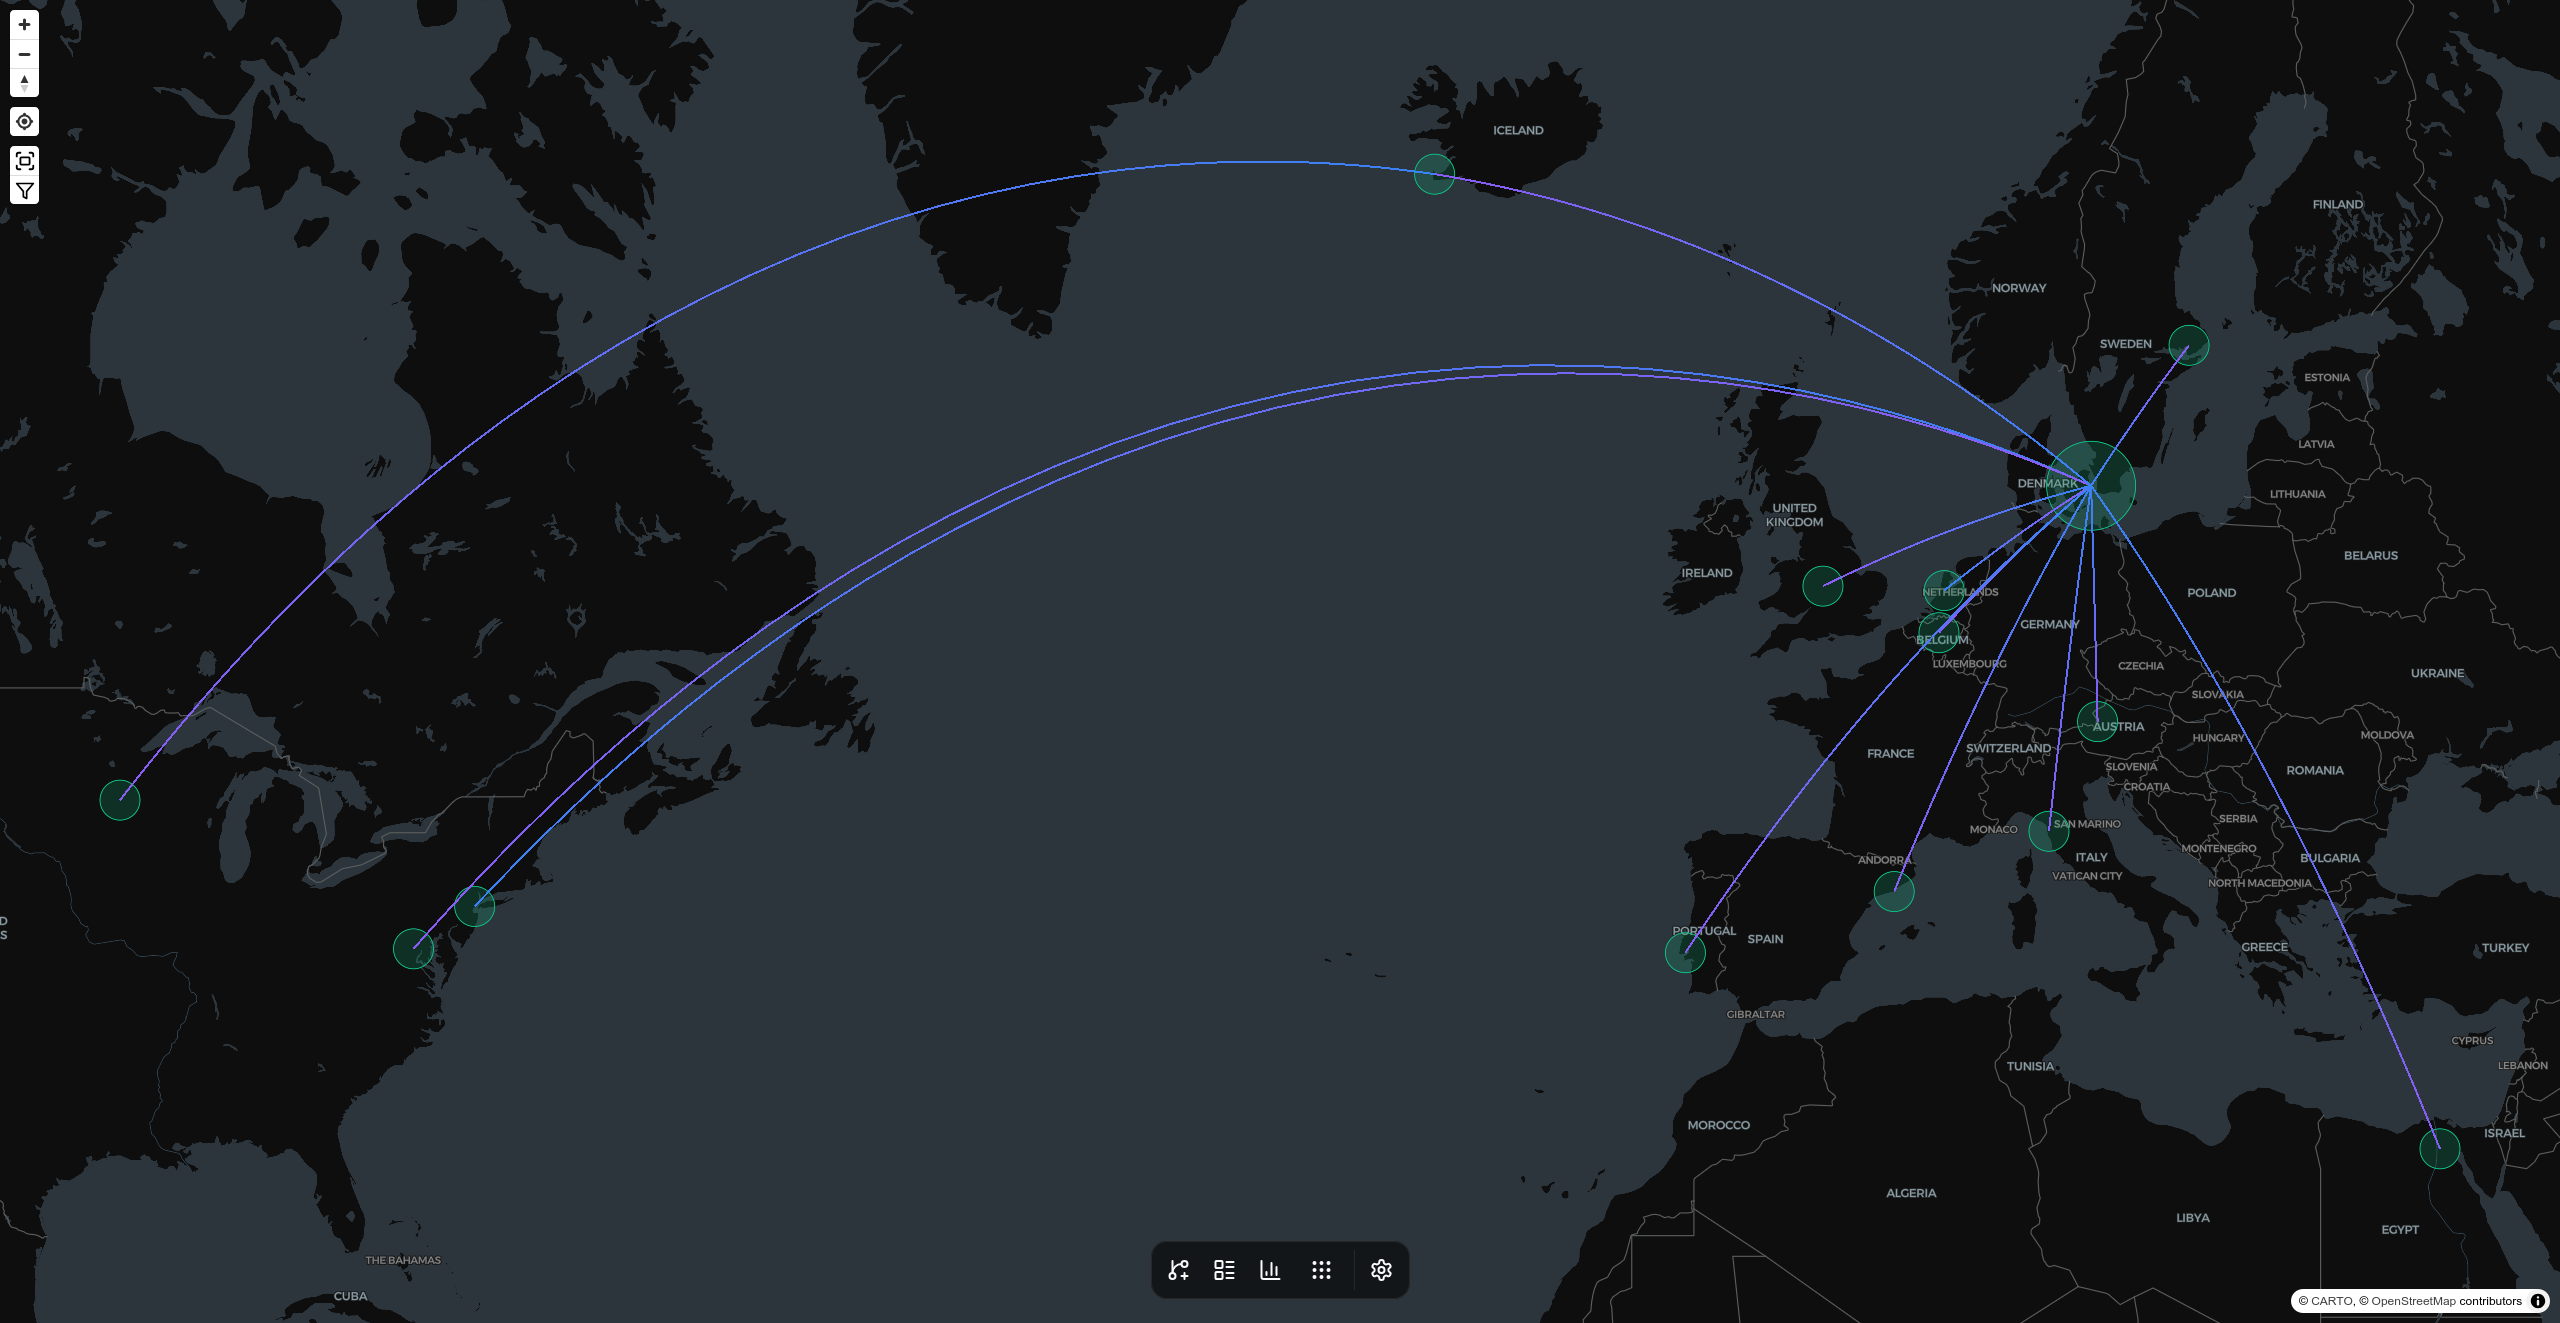
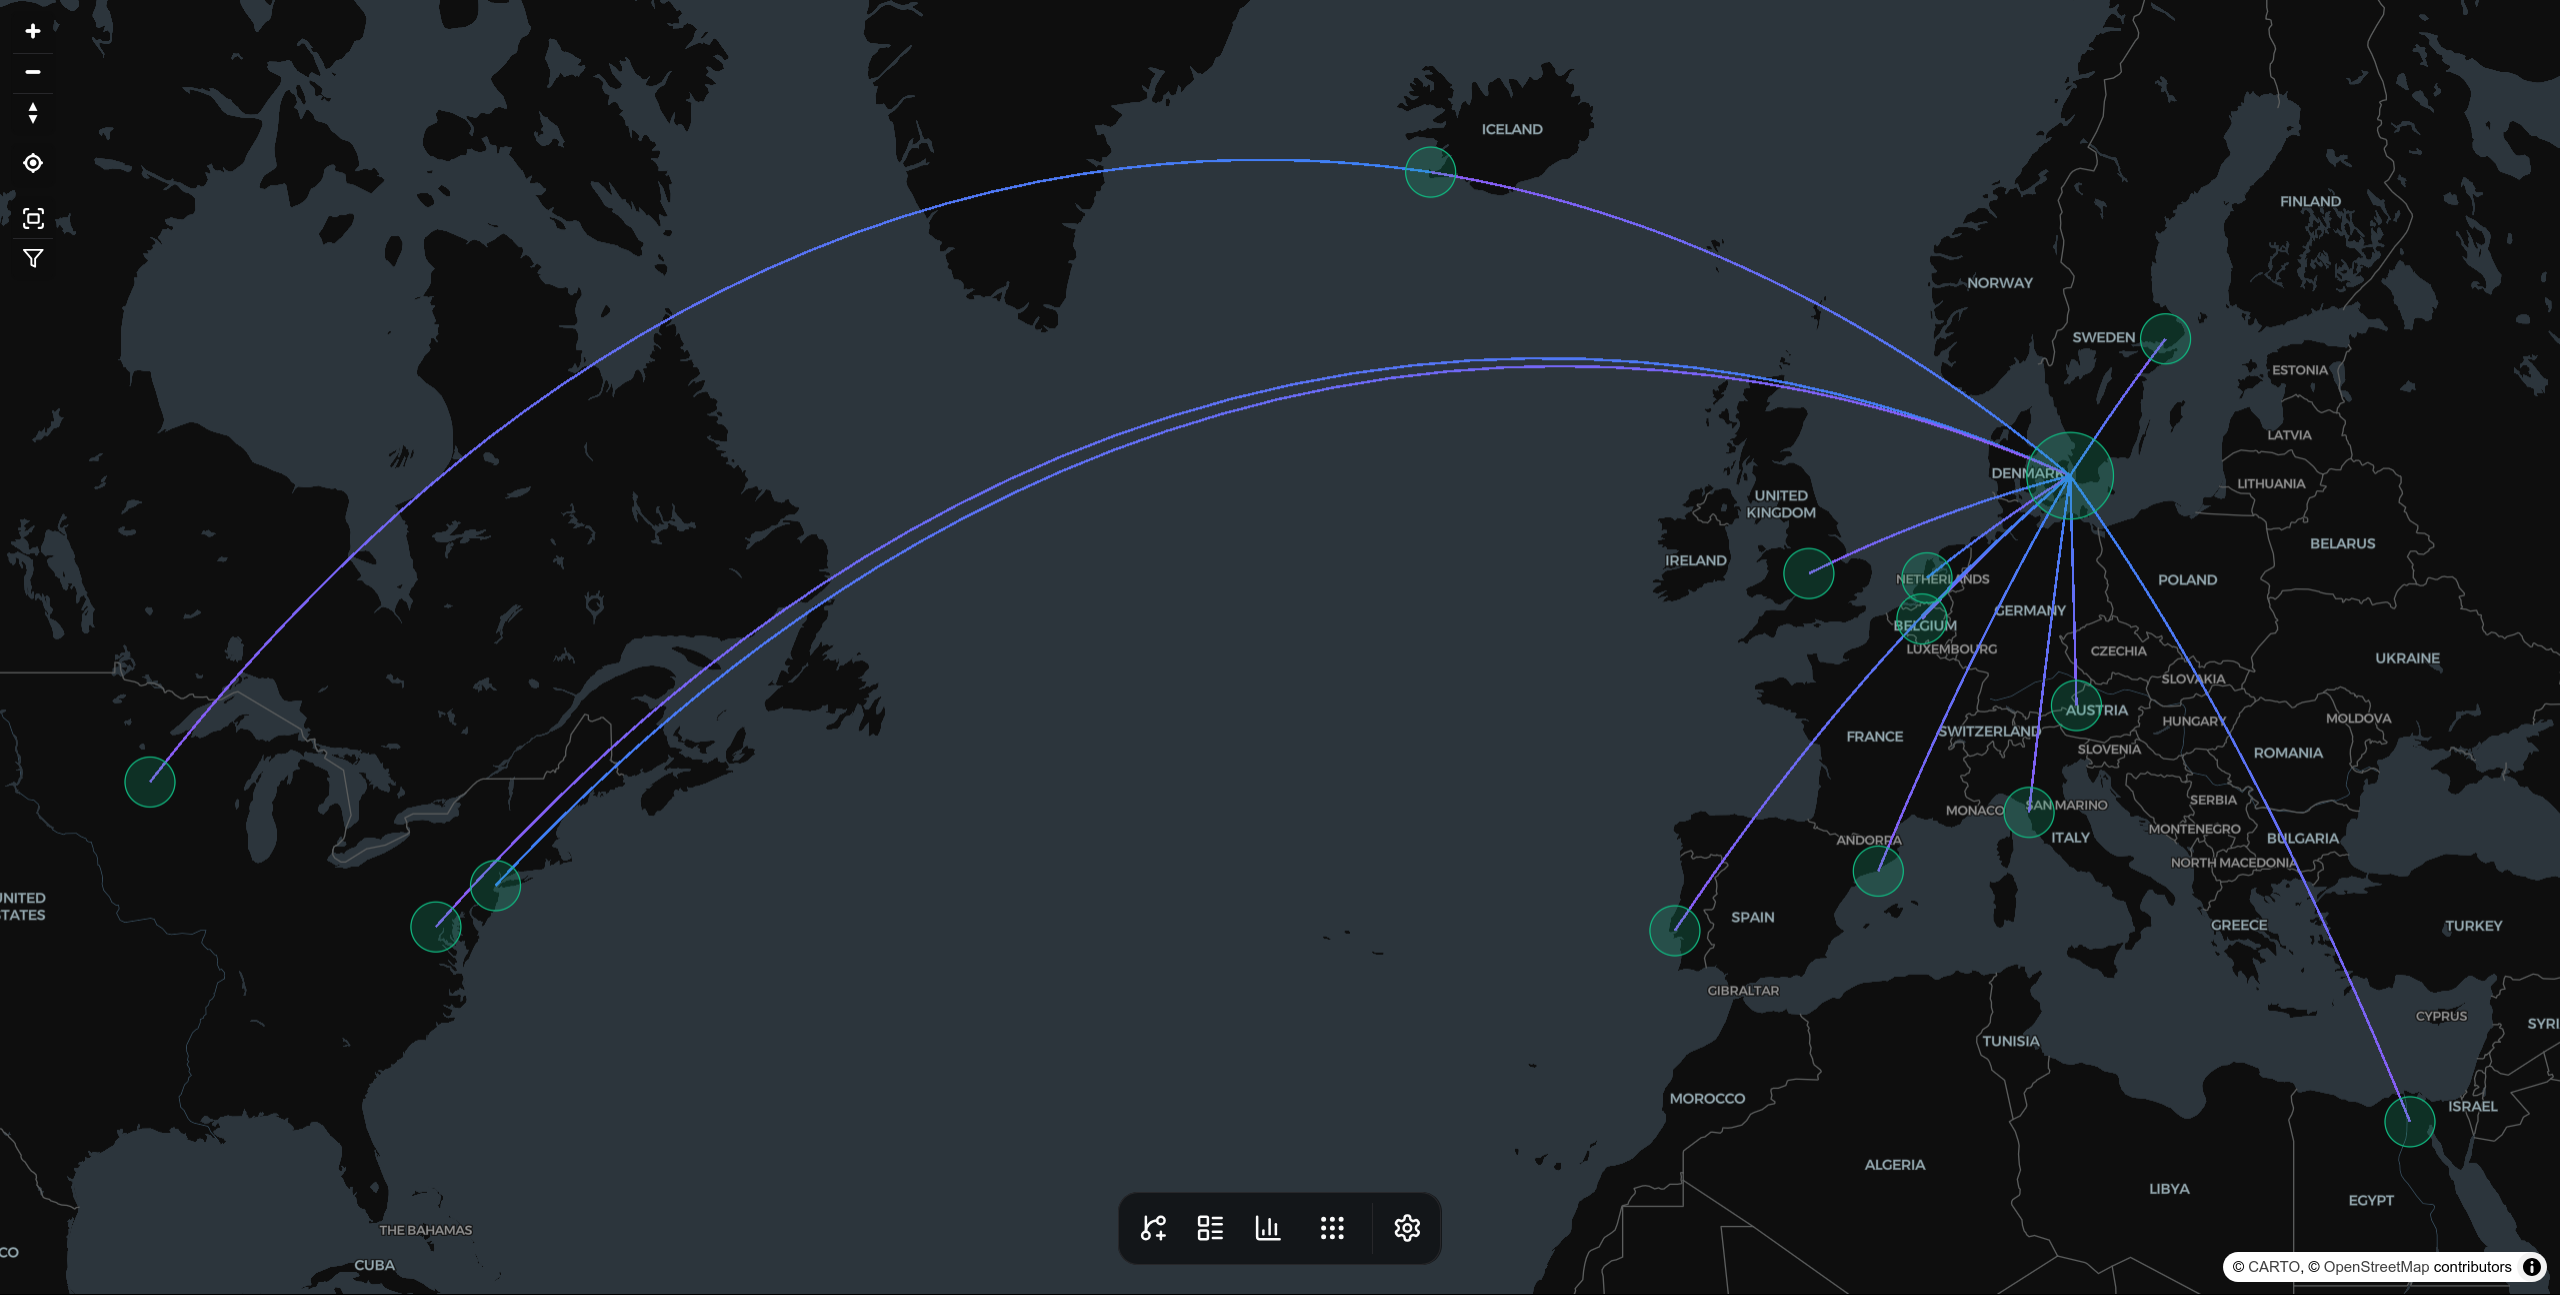
feat: add dark map controls (#156)

diff --git a/src/app.css b/src/app.css
@@ -1,5 +1,19 @@
 @import url('https://fonts.googleapis.com/css2?family=Public+Sans:ital,wght@0,300;0,400;0,500;0,600;0,700;1,300;1,400;1,500;1,700&display=swap');
 
+@font-face {
+  font-family: 'maplibre-icons';
[1 lines of base64/hex data omitted]
+  font-weight: normal;
+  font-style: normal;
+}
+
+@font-face {
+  font-family: 'maplibregl-icons-core';
[1 lines of base64/hex data omitted]
+  font-weight: normal;
+  font-style: normal;
+}
+
 @tailwind base;
 @tailwind components;
 @tailwind utilities;
@@ -97,6 +111,249 @@ body {
 
 .maplibregl-popup-tip {
   @apply !border-none;
+}
+
+:root {
+  --ml-bg: 0 0% 100%;
+  --ml-fg: 0 0% 0%;
+}
+
+.dark {
+  --ml-bg: 0 0% 5%;
+  --ml-fg: 0 0% 100%;
+}
+
+.maplibregl-ctrl-group:where(:not([data-clear-ctrl])) {
+  background-color: hsl(var(--ml-bg)) !important;
+}
+
+.maplibregl-ctrl-group button + button {
+  border-top: 1px solid hsl(var(--border)) !important;
+}
+
+.maplibregl-ctrl-icon {
+  display: unset !important;
+  width: unset !important;
+  height: unset !important;
+  background-image: none !important;
+}
+
+:is(.maplibregl-ctrl, .mapboxgl-ctrl)
+  button:not([title='Clear filters']):not(:disabled):hover {
+  filter: brightness(0.8) !important;
+}
+
+:is(.maplibregl-ctrl-group, .mapboxgl-ctrl-group) button:first-child {
+  border-top-left-radius: 4px !important;
+  border-top-right-radius: 4px !important;
+}
+
+:is(.maplibregl-ctrl-group, .mapboxgl-ctrl-group) button:last-child {
+  border-bottom-left-radius: 4px !important;
+  border-bottom-right-radius: 4px !important;
+}
+
+.maplibregl-ctrl-icon::before {
+  display: inline-block !important;
+  font-style: normal !important;
+  font-weight: 400 !important;
+  text-align: center !important;
+  font-size: 1rem !important;
+  height: 1rem !important;
+  line-height: 1em !important;
+  width: 1rem !important;
+}
+
+:is(.maplibregl-ctrl-group, .mapboxgl-ctrl-group) button {
+  align-items: center !important;
+  background-color: transparent !important;
+  box-shadow: 0 0 #0000 !important;
+  display: flex !important;
+  justify-content: center !important;
+  position: relative !important;
+  border: 0 !important;
+  color: hsl(var(--ml-fg)) !important;
+  cursor: pointer !important;
+  height: 2rem !important;
+  outline: none !important;
+  padding: 0 !important;
+  transition-duration: 0.3s !important;
+  transition-property: color, background-color, border-color,
+    text-decoration-color, fill, stroke, box-shadow !important;
+  transition-timing-function: cubic-bezier(0.4, 0, 0.2, 1) !important;
+  width: 2rem !important;
+}
+
+.maplibregl-ctrl button.maplibregl-ctrl-zoom-out .maplibregl-ctrl-icon::before {
+  content: '-' !important;
+}
+
+.maplibregl-ctrl button.maplibregl-ctrl-zoom-in .maplibregl-ctrl-icon::before {
+  content: '+' !important;
+}
+
+.maplibregl-ctrl button.maplibregl-ctrl-compass .maplibregl-ctrl-icon::before {
+  content: '\e809' !important;
+}
+.maplibregl-ctrl button.maplibregl-ctrl-compass .maplibregl-ctrl-icon::after {
+  color: hsl(var(--ml-fg)) !important;
+  content: '\e80a' !important;
+  position: absolute !important;
+  left: 50% !important;
+  top: 50% !important;
+  transform: translate(-50%, -50%) !important;
+}
+
+a.maplibregl-ctrl-logo::before {
+  font-family: maplibregl-icons-core, sans-serif;
+}
+
+.maplibregl-ctrl .maplibregl-ctrl-attrib-button::before,
+.maplibregl-ctrl button .maplibregl-ctrl-icon::before,
+.maplibregl-ctrl
+  button.maplibregl-ctrl-geolocate:disabled
+  .maplibregl-ctrl-icon::after,
+.maplibregl-ctrl button.maplibregl-ctrl-compass .maplibregl-ctrl-icon::after {
+  font-family: maplibre-icons, sans-serif;
+
+  -webkit-font-smoothing: antialiased !important;
+  -moz-osx-font-smoothing: grayscale !important;
+
+  font-variant: normal !important;
+  text-transform: none !important;
+
+  text-decoration: inherit !important;
+
+  font-style: normal !important;
+  font-weight: normal !important;
+
+  display: inline-block !important;
+  text-align: center !important;
+
+  width: 1rem !important;
+  height: 1rem !important;
+
+  line-height: 1rem !important;
+
+  font-size: 1rem !important;
+}
+
+.maplibregl-ctrl
+  button.maplibregl-ctrl-geolocate
+  .maplibregl-ctrl-icon::before {
+  content: '\e80c' !important;
+}
+
+.maplibregl-ctrl
+  button.maplibregl-ctrl-geolocate:disabled
+  .maplibregl-ctrl-icon::after {
+  content: '\e80e' !important;
+  color: hsl(var(--destructive)) !important;
+  position: absolute !important;
+  left: 50% !important;
+  top: 50% !important;
+  transform: translate(-50%, calc(-50% - 1px)) !important;
+}
+
+.maplibregl-ctrl
+  button.maplibregl-ctrl-geolocate.maplibregl-ctrl-geolocate-active
+  .maplibregl-ctrl-icon::before {
+  content: '\e80c' !important;
+  color: hsl(var(--primary)) !important;
+}
+
+.maplibregl-ctrl
+  button.maplibregl-ctrl-geolocate.maplibregl-ctrl-geolocate-active-error
+  .maplibregl-ctrl-icon::before {
+  content: '\e80c' !important;
+  color: hsl(var(--destructive)) !important;
+}
+
+.maplibregl-ctrl
+  button.maplibregl-ctrl-geolocate.maplibregl-ctrl-geolocate-background
+  .maplibregl-ctrl-icon::before {
+  content: '\e80d' !important;
+  color: hsl(var(--destructive)) !important;
+}
+
+.maplibregl-ctrl
+  button.maplibregl-ctrl-geolocate.maplibregl-ctrl-geolocate-background-error
+  .maplibregl-ctrl-icon::before {
+  content: '\e80d' !important;
+  color: hsl(var(--destructive)) !important;
+}
+
+.maplibregl-ctrl
+  button.maplibregl-ctrl-geolocate.maplibregl-ctrl-geolocate-waiting
+  .maplibregl-ctrl-icon::before {
+  animation: maplibregl-spin 2s infinite linear !important;
+}
+
+@keyframes maplibregl-spin {
+  0% {
+    transform: rotate(0deg);
+  }
+  100% {
+    transform: rotate(360deg);
+  }
+}
+
+.maplibregl-user-location-dot {
+  background-color: hsl(var(--primary)) !important;
+  width: 15px !important;
+  height: 15px !important;
+  border-radius: 50% !important;
+}
+
+.maplibregl-user-location-dot::before {
+  background-color: hsl(var(--primary)) !important;
+  content: '' !important;
+  width: 15px !important;
+  height: 15px !important;
+  border-radius: 50% !important;
+  position: absolute !important;
+  animation: maplibregl-user-location-dot-pulse 2s infinite !important;
+}
+
+.maplibregl-user-location-dot::after {
+  border-radius: 50% !important;
+  border: none !important;
+  content: '' !important;
+  height: 19px !important;
+  left: -2px !important;
+  position: absolute !important;
+  top: -2px !important;
+  width: 19px !important;
+  box-sizing: border-box !important;
+  box-shadow: 0 0 3px rgb(0 0 0 / 35%) !important;
+}
+
+@keyframes maplibregl-user-location-dot-pulse {
+  0% {
+    transform: scale(1);
+    opacity: 1;
+  }
+  70% {
+    transform: scale(3);
+    opacity: 0;
+  }
+  100% {
+    transform: scale(1);
+    opacity: 0;
+  }
+}
+
+.maplibregl-user-location-dot-stale {
+  background-color: hsl(var(--destructive)) !important;
+}
+
+.maplibregl-user-location-dot-stale::after {
+  display: none !important;
+}
+
+.maplibregl-user-location-accuracy-circle {
+  background-color: hsla(var(--primary) / 20%) !important;
+  border-radius: 100% !important;
 }
 
 /* Basic prose styles */

diff --git a/src/lib/components/map/Map.svelte b/src/lib/components/map/Map.svelte
@@ -90,17 +90,13 @@
   {#if flights.length}
     <Control position="top-left">
       <ControlGroup>
-        <ControlButton
-          on:click={() => fitFlights()}
-          title="Show all flights"
-          class="text-black"
-        >
-          <Fullscreen size={22} />
+        <ControlButton on:click={() => fitFlights()} title="Show all flights">
+          <Fullscreen size={20} />
         </ControlButton>
         <Popover.Root>
           <Popover.Trigger>
-            <ControlButton title="Filter flights" class="text-black">
-              <Filter size={20} />
+            <ControlButton title="Filter flights">
+              <Filter size={18} />
             </ControlButton>
           </Popover.Trigger>
           <Popover.Content
@@ -114,16 +110,19 @@
     </Control>
     <Control position="top-left">
       {#if showClear}
-        <ControlGroup class="!bg-destructive">
+        <div
+          class="maplibregl-ctrl-group !bg-destructive hover:!bg-destructive/80"
+          data-clear-ctrl
+        >
           <ControlButton
             on:click={() => {
               filters = defaultFilters;
             }}
             title="Clear filters"
           >
-            <Undo2 class="text-white" size={20} />
+            <Undo2 size={20} />
           </ControlButton>
-        </ControlGroup>
+        </div>
       {/if}
     </Control>
   {/if}
